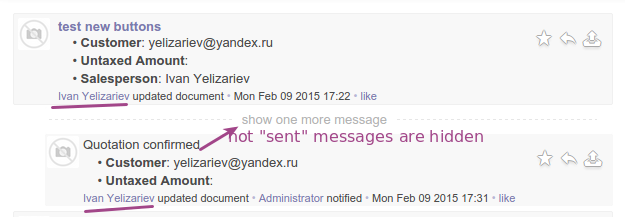
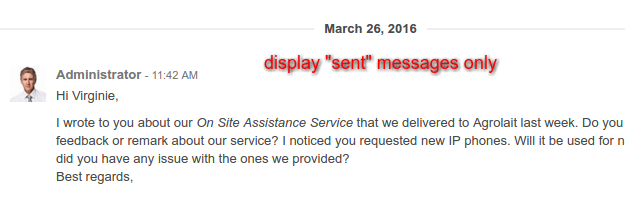
[DOC] update screenshots for description
[DOC] mail_sent/__openerp__.py, mail_archive/__openerp__.py: update summary
[REF] optimize format_message() in models.py
[DOC] update screenshots for description (make correct size)

diff --git a/mail_sent/models.py b/mail_sent/models.py
@@ -19,10 +19,11 @@ class MailMessage(models.Model):
     @api.multi
     def message_format(self):
         message_values = super(MailMessage, self).message_format()
-        for message in message_values:
-            for item in self:
-                if message['id'] == item.id:
-                    message['sent'] = item.sent
+        message_index = {message['id']: message for message in message_values}
+        for item in self:
+            msg = message_index.get(item.id)
+            if msg:
+                msg['sent'] = item.sent
         return message_values
 
 

diff --git a/mail_sent/__openerp__.py b/mail_sent/__openerp__.py
@@ -1,7 +1,7 @@
 # -*- coding: utf-8 -*-
 {
-    "name": "Mail Sent",
-    "summary": """Create sent channel""",
+    "name": "Sentbox",
+    "summary": """Quick way to find sent messages""",
     "category": "Discuss",
     "images": [],
     "version": "1.0.0",
